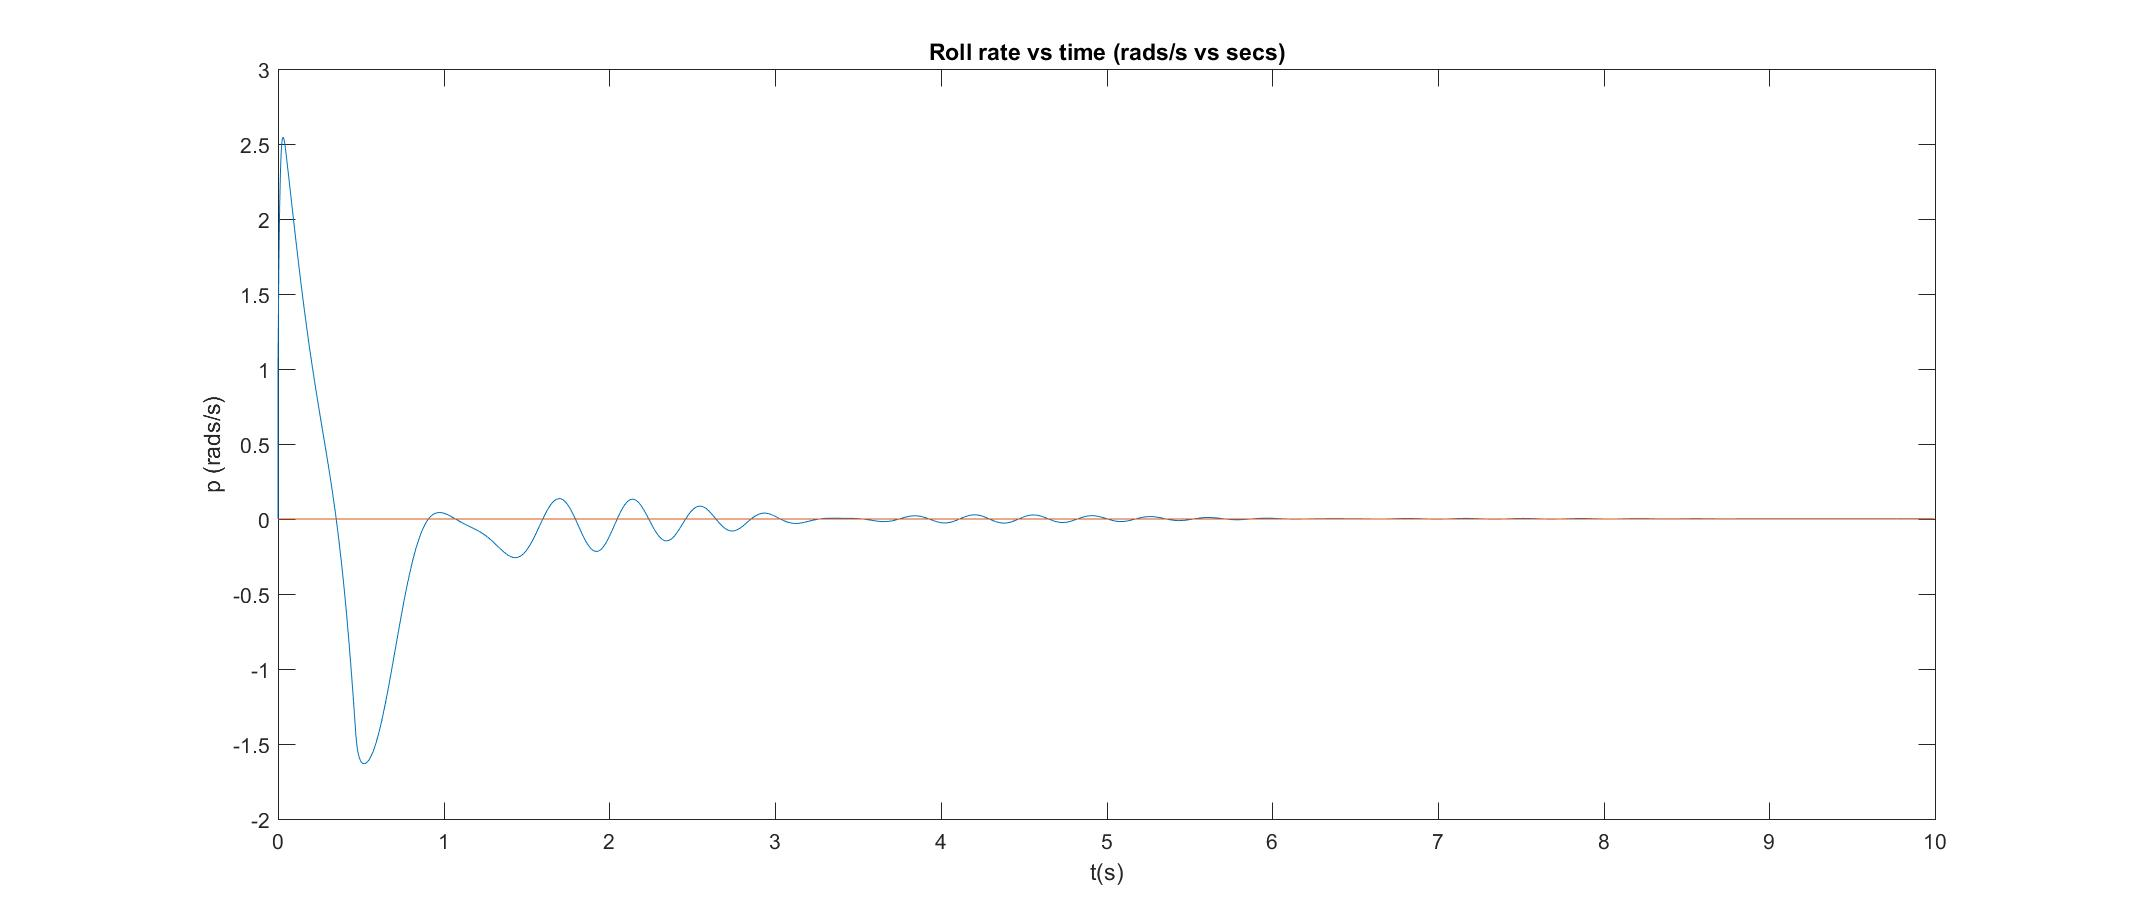
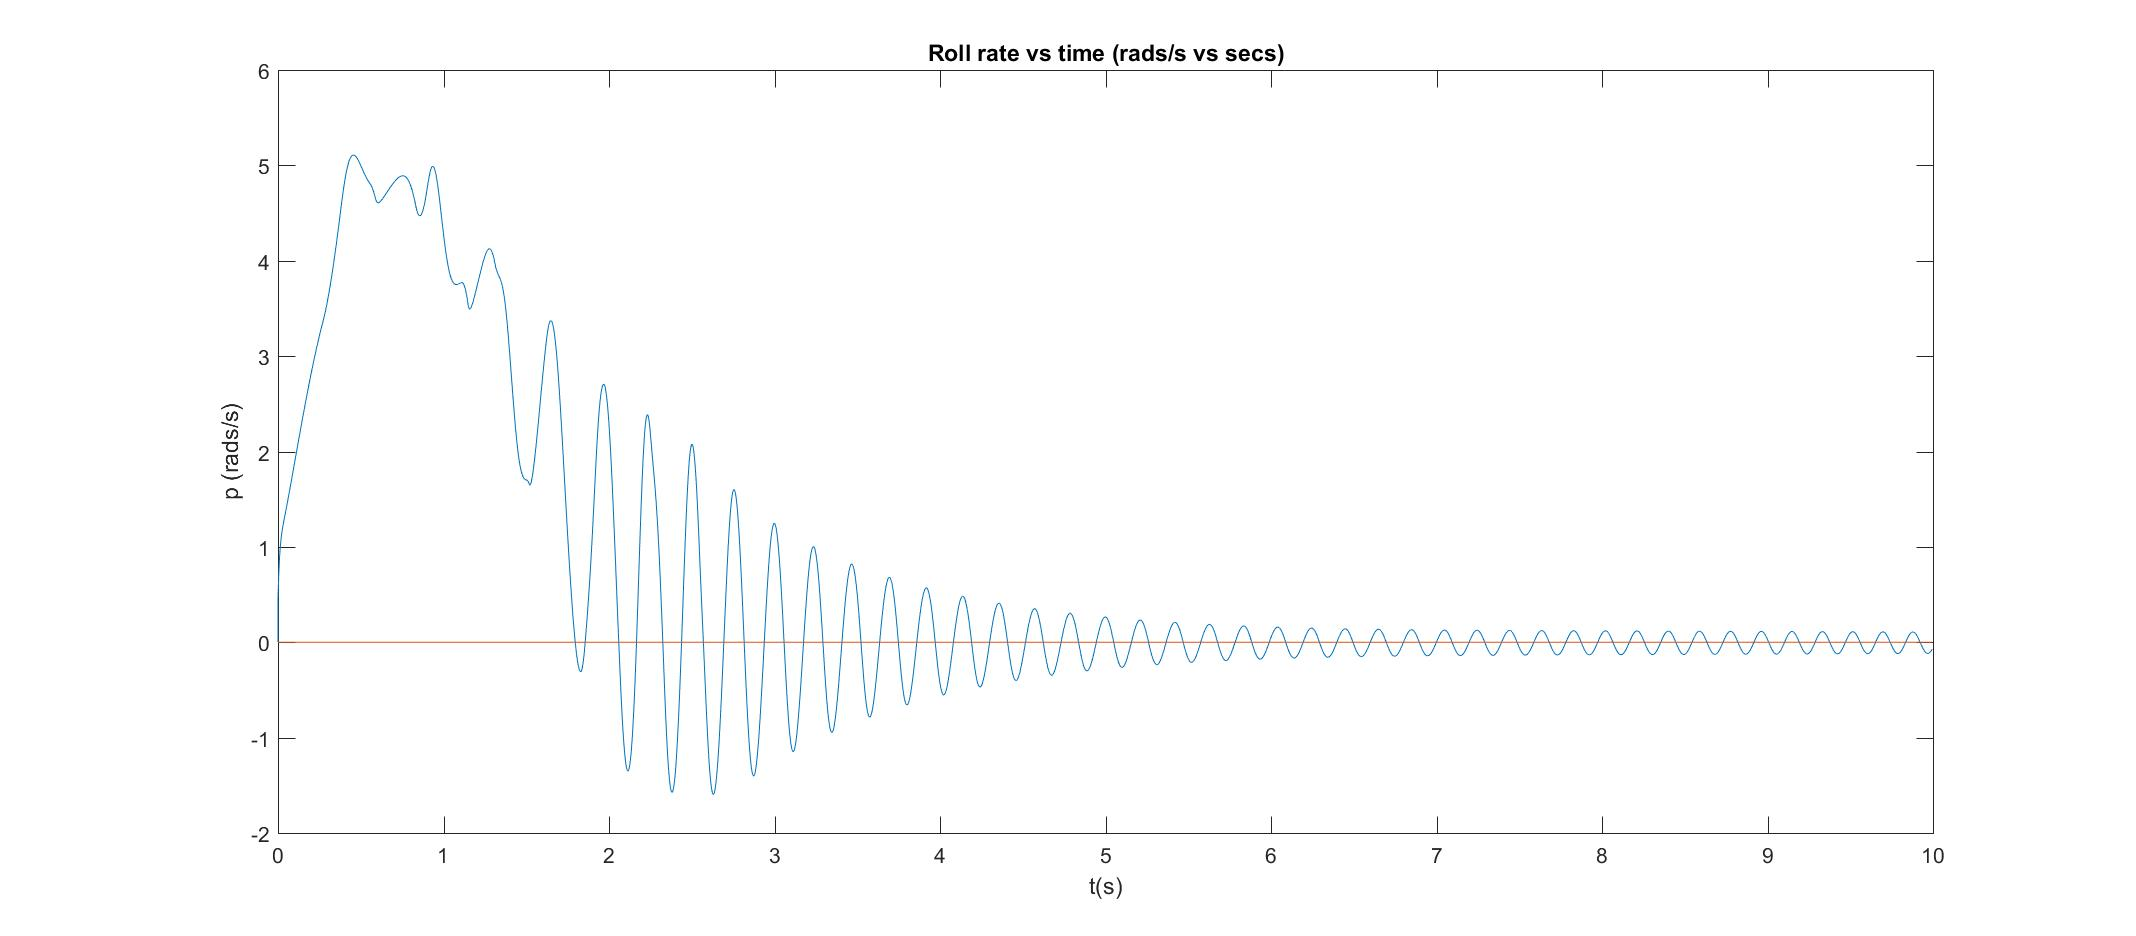
quatorian one run matching results, problem with qout and euler

diff --git a/wholemain.m b/wholemain.m
@@ -25,11 +25,11 @@ initequil; %%change equil to fit ur new state!!!
  state=[0 0 0 0 0 0 0 0 1 q0]';
     f=[1.25 1.25 1.25 0]';
     %desired state (u,v,w,p,q,r,X,Y,Z,q0,q1,q2,q3) uvw in body frame
-    desiredstate=[0 0 0 0 0 0 0 0 1 1 0 0 0]';
+    desiredstate=[0 0 0 0 0 0 1 1 1 1 0 0 0]';
 
-% 
-%   endTime =10;  % seconds
-%    dt = 1 / 200; % time step (Hz)
+% % 
+%  endTime =10;  % seconds
+   dt = 1 / 200; % time step (Hz)
 %   t=0;
 %     
 % Hist = inithist(state,t,f,desiredstate);
@@ -48,11 +48,11 @@ initequil; %%change equil to fit ur new state!!!
 %     -sin(state(2)) cos(state(2))*sin(state(1)) cos(state(1))*cos(state(2))];
 %% State Initialization
 q = [state(10);state(11);state(12);state(13)]/norm(state(10:13));
-rotMat = quat2rotmat(q) %% from inertal to bdy
-
+R = quat2rotmat(q) %% from body to inertial
+rotMat=R' %inertial to body 
 %state = reshape(state,[max(size(state)),1]); %make sure state is column vector
-Vinertial(1:3) = rotMat'*state(1:3) %R takes from body to inertial states 1:3 which arein body
-desiredVinertial(1:3) = rotMat'*desiredstate(1:3)
+Vinertial(1:3) = R*state(1:3) %R takes from body to inertial states 1:3 which arein body
+desiredVinertial(1:3) = R*desiredstate(1:3)
 %% Outer position Controller
     errouter_d =[state(7)-desiredstate(7);state(8)-desiredstate(8);state(9)-desiredstate(9)]
     errouter_d_dot=[Vinertial(1)-desiredVinertial(1);Vinertial(2)-desiredVinertial(2);Vinertial(3)-desiredVinertial(3)]
@@ -61,7 +61,7 @@ desiredVinertial(1:3) = rotMat'*desiredstate(1:3)
 
     % Computing n desired (eq45-46)
     f_total=norm(m/nbar(3)*(desired_accl-[0;0;-g]))
-    n_desired=m/nbar(3)*rotMat*(desired_accl-[0;0;-g])/norm(m/nbar(3)*(desired_accl-[0;0;-g]))
+    n_desired=m/nbar(3)*inv(R)*(desired_accl-[0;0;-g])/norm(m/nbar(3)*(desired_accl-[0;0;-g]))
 %R should take from inertial fram to body frame the gravity forces
     s=[state(4)-wbbar(1);state(5)-wbbar(2);n_desired(1)-nbar(1);n_desired(2)-nbar(2)];
     u=-K*s
@@ -71,11 +71,11 @@ desiredVinertial(1:3) = rotMat'*desiredstate(1:3)
     f=forces(u,f_total)
     
     % Propagate dynamics.
-%    options = odeset('RelTol',1e-3); %tolerance   
-% [t1ODE,stateODE]= ode45(@(t1ODE,stateODE) dynamicsysteme(t1ODE, stateODE, f,desiredstate),[i i+dt],state,options);
+   options = odeset('RelTol',1e-3); %tolerance   
+[t1ODE,stateODE]= ode45(@(t1ODE,stateODE) dynamicsysteme(t1ODE, stateODE, f,desiredstate),[i i+dt],state,options);
     statederiv=dynamicsysteme(0, state,f,desiredstate)
-accelinertialframe=rotMat'*(statederiv(1:3)+cross(state(4:6),state(1:3)))
-% state=stateODE(end,:)'
+accelinertialframe=R*(statederiv(1:3)+cross(state(4:6),state(1:3)))
+state=stateODE(end,:)'
 % t = t1ODE(end,:)- dt;
  
 
@@ -90,6 +90,8 @@ accelinertialframe=rotMat'*(statederiv(1:3)+cross(state(4:6),state(1:3)))
    
 % end
 % % %%
+
+% %%
 % set(0,'DefaultFigureWindowStyle','docked')
 % figure(1)
 %     plot(Hist.times,Hist.states(1,:)); hold on
@@ -98,8 +100,9 @@ accelinertialframe=rotMat'*(statederiv(1:3)+cross(state(4:6),state(1:3)))
 % %      plot([0 10],[0.133899759 0.133899759]);
 %   title('Body Velocity in X')
 %   xlabel('t(s)')
-%  ylabel('Roll(rads)')
+%  ylabel('m/s')
 %     saveas(figure (1),'state1.jpg')
+% %%
 % figure(2)
 %     plot(Hist.times,Hist.states(2,:)); hold on
 % 
@@ -220,6 +223,6 @@ accelinertialframe=rotMat'*(statederiv(1:3)+cross(state(4:6),state(1:3)))
 %     xlabel('t(s)')
 %     ylabel('q')
 %    saveas(figure (12),'quaterion.jpg')
- 
+%  
  %% Visualize simulation.
 %simvisualization(Hist.times, Hist.states, 'V1');

diff --git a/dynamicsysteme.m b/dynamicsysteme.m
@@ -8,7 +8,8 @@ function [stateDeriv]= dynamicsysteme(t, state, f,desirestate)
 global g m IB Izzp IT l Dt Kf Kt  damping_ratio nat_freq  
 global  wbar fbar wbbar nbar K
 q = [state(10);state(11);state(12);state(13)]/norm(state(10:13));
-rotMat = quat2rotmat(q); %% from inertal to bdy
+R = quat2rotmat(q) %% from body to inertial
+state = reshape(state,[max(size(state)),1]);
 stateDeriv = zeros(13,1);
 
 % %% Rotational Matrix 
@@ -34,7 +35,7 @@ for j=1:3
 end
 w(4)=0;
 f(4)=0;
-fGravity = rotMat*[0; 0; -m*g];                 % force of gravity, inertial fram
+fGravity = R'*[0; 0; -m*g];                 % force of gravity, inertial fram
 fThrust = [0; 0; Kf*sum(w.^2)];   % force of thrust, expressed in inertial frame
 
 stateDeriv(1:3) = (fGravity  +fThrust - m*cross(state(4:6),state(1:3)))/m;
@@ -42,10 +43,9 @@ stateDeriv(4)=(1/IB(1,1))*((f(2))*l-state(5)*state(6)*(IT(3,3)-IT(1,1))-Izzp*sta
 stateDeriv(5)=(1/IB(1,1))*((f(3)-f(1))*l+state(4)*state(6)*(IT(3,3)-IT(1,1))+Izzp*state(4)*(sqrt(abs(f(1))/Kf) +sqrt(abs(f(2))/Kf) +sqrt(abs(f(3))/Kf)+ sqrt(abs(f(4))/Kf)));
 stateDeriv(6)=(1/IB(3,3))*(-Dt*state(6)+Kt*(f(1)-f(2)+f(3)-f(4)));
 
-% stateDeriv(7)=state(10);
 % stateDeriv(8)=state(11);
 % stateDeriv(9)=state(12);
-stateDeriv(7:9)=rotMat'*state(1:3);
+stateDeriv(7:9)=R*state(1:3);
 stateDeriv(10:13) = -0.5*quatmultiply([0;state(4:6)],q);
 
 % stateDeriv(10)=((cos(state(1))*cos(state(3))*sin(state(2))+sin(state(1))*sin(state(3)))/m)*(f(1)+f(2)+f(3)+f(4));
